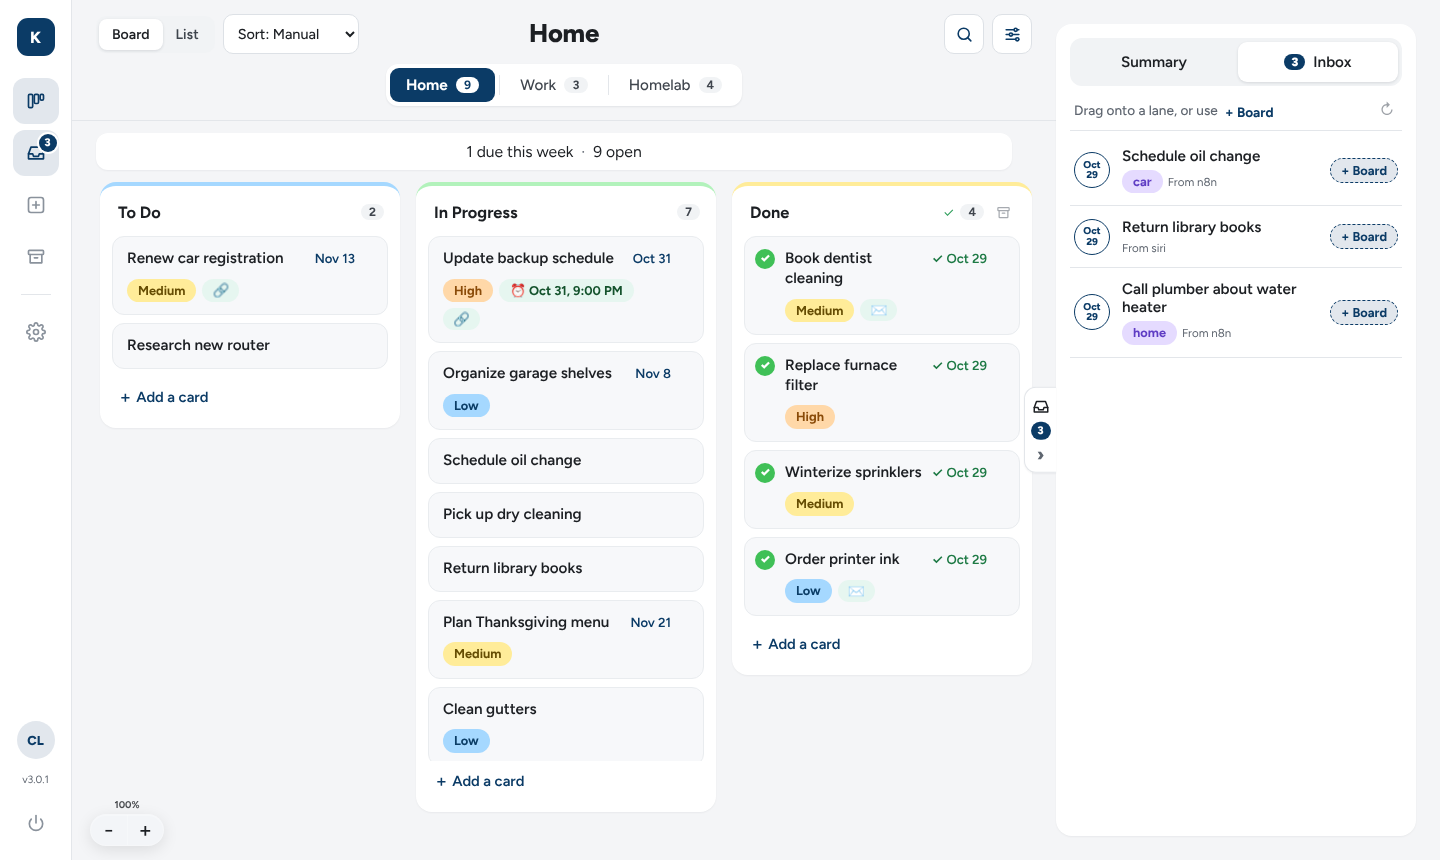
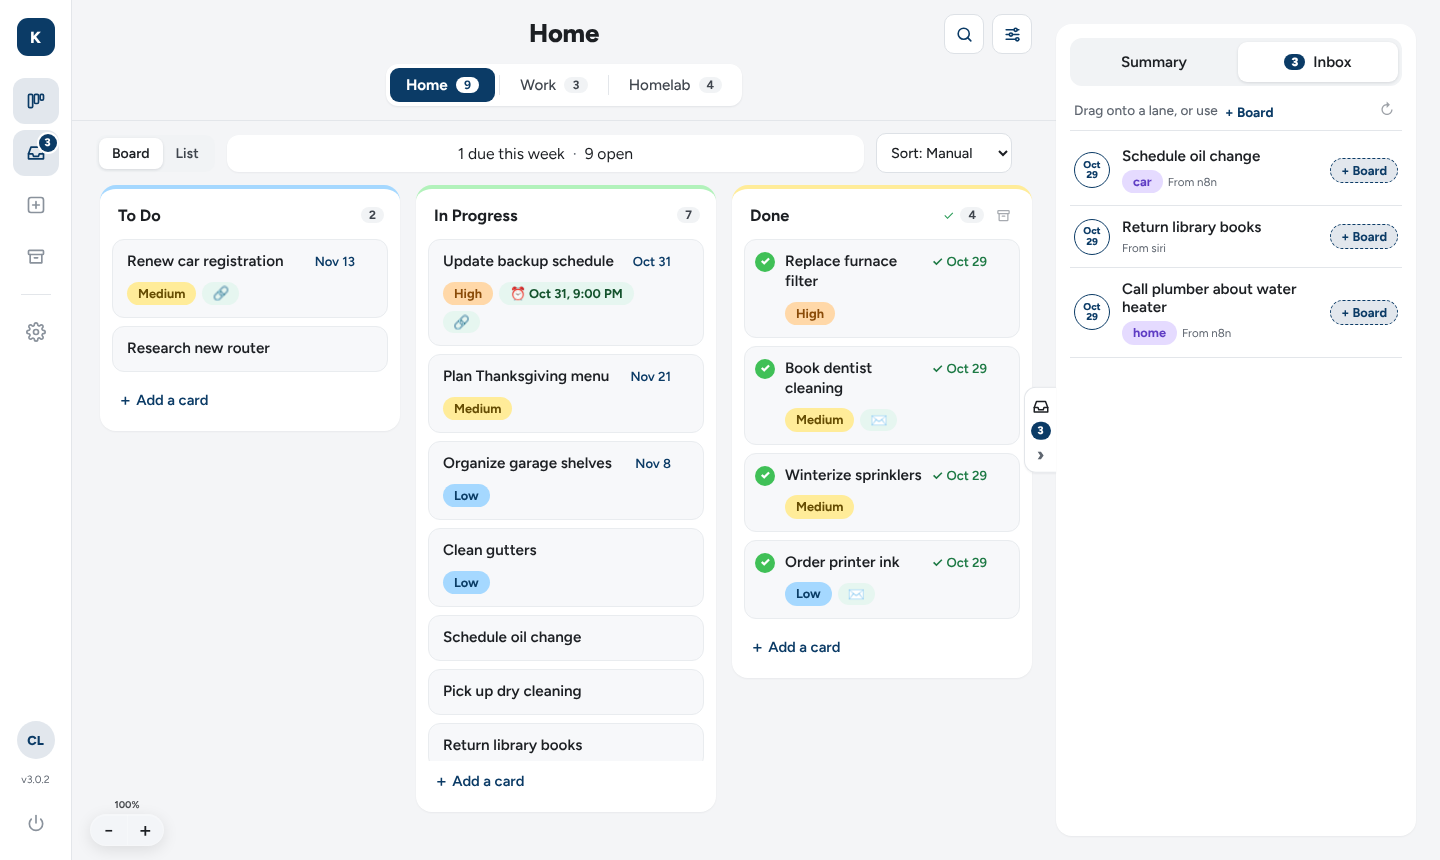
v3.0.2: Board/List and Sort on the summary line
Claude-Session: https://claude.ai/code/session_019dTEppwqyJwhXefobUxgUV

diff --git a/src/public/index.html b/src/public/index.html
@@ -52,22 +52,6 @@
           <!-- Compact header: view + sort (left) · board title (center) · search + board settings (right);
                board tabs centered underneath. -->
           <div class="board-header" id="boardHeader">
-            <div class="bh-left">
-              <div class="view-toggle" role="group" aria-label="View">
-                <button type="button" class="vt-btn active" data-view="board" aria-pressed="true">Board</button>
-                <button type="button" class="vt-btn" data-view="list" aria-pressed="false">List</button>
-              </div>
-              <!-- Sort: one menu that drives the auto-sort checkbox + key below. -->
-              <select id="sortMode" class="sort-mode" title="Sort the cards in every lane" aria-label="Sort cards">
-                <option value="manual">Sort: Manual</option>
-                <option value="priority">Sort: Priority</option>
-                <option value="due">Sort: Due date</option>
-              </select>
-              <span hidden>
-                <input type="checkbox" id="autoSort" tabindex="-1" aria-label="Auto-sort" />
-                <select id="autoSortKey" tabindex="-1" aria-label="Auto-sort key"><option value="priority">by priority</option><option value="due">by due date</option></select>
-              </span>
-            </div>
             <div class="board-meta">
               <h1 id="boardName">—</h1>
               <p id="boardDesc" hidden></p>
@@ -86,7 +70,24 @@
             <!-- Board tabs: every active board with its open-card count, live-updated. -->
             <nav class="board-switcher" id="boardSwitcher" aria-label="Boards"></nav>
           </div>
-          <div class="status-pill" id="statusPill" hidden></div>
+          <!-- Board / List (left) · board summary (center) · Sort (right) -->
+          <div class="status-row">
+              <div class="view-toggle" role="group" aria-label="View">
+                <button type="button" class="vt-btn active" data-view="board" aria-pressed="true">Board</button>
+                <button type="button" class="vt-btn" data-view="list" aria-pressed="false">List</button>
+              </div>
+              <div class="status-pill" id="statusPill" hidden></div>
+              <!-- Sort: one menu that drives the auto-sort checkbox + key below. -->
+              <select id="sortMode" class="sort-mode" title="Sort the cards in every lane" aria-label="Sort cards">
+                <option value="manual">Sort: Manual</option>
+                <option value="priority">Sort: Priority</option>
+                <option value="due">Sort: Due date</option>
+              </select>
+              <span hidden>
+                <input type="checkbox" id="autoSort" tabindex="-1" aria-label="Auto-sort" />
+                <select id="autoSortKey" tabindex="-1" aria-label="Auto-sort key"><option value="priority">by priority</option><option value="due">by due date</option></select>
+              </span>
+          </div>
           <main class="board" id="board"></main>
         </div>
 

diff --git a/src/public/styles.css b/src/public/styles.css
@@ -1414,3 +1414,17 @@ body.inbox-collapsed .inbox-edge { right: 0; }
 }
 .rail .version-foot:hover, .rail .version-foot:focus-visible { background: var(--surface-2); color: var(--text); text-decoration: none; }
 @media (max-width: 760px) { .rail .version-foot { display: none; } }
+
+/* Status row: Board/List switch · summary line · Sort */
+.status-row { display: flex; align-items: center; gap: 12px; margin: 0 44px 12px 24px; }
+.status-row .status-pill { flex: 1 1 auto; margin: 0; min-width: 0; }
+.status-row .sort-mode { margin-left: auto; flex: 0 0 auto; }
+.status-row .view-toggle { flex: 0 0 auto; }
+.board-header { grid-template-areas: ". title right" "tabs tabs tabs"; }
+@container mainarea (max-width: 620px) {
+  .board-header { grid-template-areas: "title right" "tabs tabs"; }
+}
+@media (max-width: 760px) {
+  .status-row { margin: 0 14px 12px; flex-wrap: wrap; }
+  .status-row .status-pill { order: 3; flex-basis: 100%; }
+}

diff --git a/README.md b/README.md
@@ -359,12 +359,12 @@ subject and email).
   board name to see its description.
 - **Search**: the 🔍 at the top right (or press **/**) opens a search box
   across all boards; Esc closes it.
-- **Board / List** (top left): flips between lanes side by side and a list
+- **Board / List** (left end of the summary line under the tabs): flips between lanes side by side and a list
   with the lanes stacked, one row per card with its reminder, tags and an ✉ /
   🔗 icon for its email or link (hover for the address), plus Category and Due
-  columns. Remembered per board. **Sort** (Manual, Priority, Due date) sits
-  next to it.
-- The line under the header sums up the board: overdue, due this week, open.
+  columns. Remembered per board. **Sort** (Manual, Priority, Due date) is at
+  the right end of the same line.
+- The line under the header sums up the board: overdue · due this week · open.
 - **Archive or delete a card** with the small **✕** in its top-right corner
   (Delete needs a second click to confirm).
 - **Move a card to another board** from its window: pick the **Board** and
@@ -658,7 +658,7 @@ settings if you want anyone to pull it. To cut a release, bump `version` in
 shows), then:
 
 ```bash
-git tag v3.0.1 && git push origin v3.0.1
+git tag v3.0.2 && git push origin v3.0.2
 ```
 
 To cross-build locally from an Apple-Silicon Mac for an Intel/AMD server without

diff --git a/CHANGELOG.md b/CHANGELOG.md
@@ -4,6 +4,10 @@ All notable changes to KanDeck. Newest first. The in-app **What's new** window
 reads this file. Format: one `## <version> — <YYYY-MM-DD>` heading per release,
 followed by `- ` bullet points (`**bold**` and `` `code` `` are supported).
 
+## 3.0.2 — 2026-10-29
+
+- **Board / List** moved to the left end of the summary line (overdue · due this week · open) and **Sort** to its right end, so the header is just the board name, tabs, search and board settings.
+
 ## 3.0.1 — 2026-10-29
 
 - **Compact header**: the board name is centered at the top (no description line; hover the name to see it) with the board tabs centered underneath. **Board / List** and **Sort** sit at the top left; **search** is now a 🔍 icon at the top right (press **/** too), next to **Board settings** (new sliders icon, so it isn't confused with the App settings gear).
